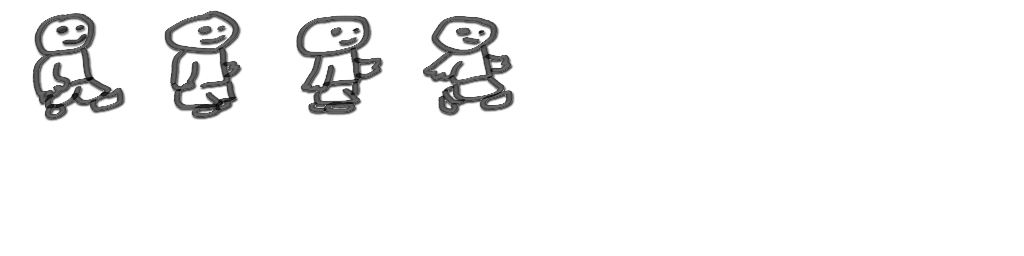
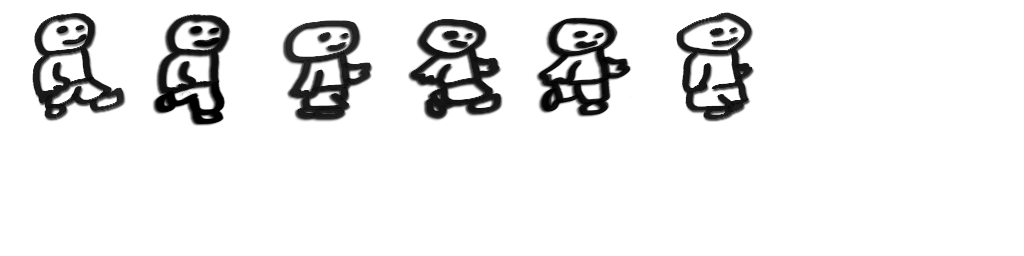
working on animations an gameplay

Changed region(s): [[0.0312, 0.0312, 0.625, 0.5], [0.6562, 0.0312, 0.75, 0.5]]

diff --git a/Vandalism-Tomatos-core/src/com/turtleGames/vandalism/tomatos/classes/WorldOrthoStyle.java b/Vandalism-Tomatos-core/src/com/turtleGames/vandalism/tomatos/classes/WorldOrthoStyle.java
@@ -1,11 +1,13 @@
 package com.turtleGames.vandalism.tomatos.classes;
 
+import java.util.Random;
+
 import com.badlogic.gdx.Gdx;
 import com.badlogic.gdx.graphics.Texture;
 import com.badlogic.gdx.math.Intersector;
 import com.badlogic.gdx.math.Vector3;
+import com.badlogic.gdx.utils.Array;
 import com.turtleGames.vandalism.tomatos.Tomatos;
-import com.turtleGames.vandalism.tomatos.collections.Targets;
 import com.turtleGames.vandalism.tomatos.entities.Background;
 import com.turtleGames.vandalism.tomatos.entities.ImpactSetter;
 import com.turtleGames.vandalism.tomatos.entities.Projectile;
@@ -30,7 +32,7 @@ public class WorldOrthoStyle {
 	public WorldRendererOrthoStyle worldRenderer;
 
 	Background background;
-	public Targets targets;
+	public Target target;
 	public ImpactSetter impactSetter;
 	public Projectile projectile;
 
@@ -38,13 +40,16 @@ public class WorldOrthoStyle {
 	Vector3 touchPoint;
 	public int state;
 
+	Array<Target> targets;
+
 	public WorldOrthoStyle(Tomatos game, WorldListener listener) {
 		this.game = game;
 		this.listener = listener;
 		this.touchPoint = new Vector3();
 
 		initiateBackground();
-		initiateTargets();
+		initiateTargetsArray();
+		initiateTarget();
 		initiateImpactSetter();
 		initiateProjectile();
 
@@ -56,8 +61,26 @@ public class WorldOrthoStyle {
 				(Texture) game.assetManager.get("data/background.png"));
 	}
 
-	private void initiateTargets() {
-		targets = new Targets(7, game.assets.targetAnimation);
+	private void initiateTargetsArray() {
+		targets = new Array<Target>();
+	}
+
+	private void initiateTarget() {
+		float x, y;
+
+		Random rand = new Random();
+		if (rand.nextFloat() > 0.5f)
+			x = 640;
+		else
+			x = 0;
+
+		y = rand.nextFloat() * 250;
+
+		target = new Target(x, y, game.assets.targetAnimation.getKeyFrame(0)
+				.getRegionWidth(), game.assets.targetAnimation.getKeyFrame(0)
+				.getRegionHeight(), game.assets.targetAnimation);
+
+		targets.add(target);
 	}
 
 	private void initiateImpactSetter() {
@@ -94,6 +117,7 @@ public class WorldOrthoStyle {
 		updateTargets(delta);
 		updateCamera();
 		checkCollitions();
+		checkTargets();
 	}
 
 	private void updateImpactSetter(float delta) {
@@ -105,7 +129,7 @@ public class WorldOrthoStyle {
 	}
 
 	private void updateTargets(float delta) {
-		targets.update(delta);
+		target.update(delta);
 	}
 
 	private void updateCamera() {
@@ -123,17 +147,23 @@ public class WorldOrthoStyle {
 
 	private void checkCollitions() {
 		if (impactSetter.isShooting() && projectile.stateTime >= 0.5f) {
-			for (int i = 0; i < targets.targets.size; i++) {
-				Target target = targets.targets.get(i);
+			for (int i = 0; i < targets.size; i++) {
+				Target target = targets.get(i);
 				if (target.spacePos.z <= projectile.spacePos.z + 8
 						&& target.spacePos.z >= projectile.spacePos.z - 8)
 					if (Intersector.overlaps(projectile.bounds, target.bounds))
 						if (target.spacePos.z <= projectile.spacePos.z + 32
 								&& target.spacePos.z >= projectile.spacePos.z - 32) {
-							targets.targets.removeIndex(i);
+							targets.removeIndex(i);
 							projectile.setUpdate(false);
 						}
 			}
+		}
+	}
+
+	private void checkTargets() {
+		if (targets.size == 0) {
+			initiateTarget();
 		}
 	}
 

diff --git a/Vandalism-Tomatos-core/src/com/turtleGames/vandalism/tomatos/classes/WorldRendererOrthoStyle.java b/Vandalism-Tomatos-core/src/com/turtleGames/vandalism/tomatos/classes/WorldRendererOrthoStyle.java
@@ -5,6 +5,7 @@ import com.badlogic.gdx.graphics.OrthographicCamera;
 import com.badlogic.gdx.graphics.Texture;
 import com.badlogic.gdx.graphics.g2d.SpriteBatch;
 import com.badlogic.gdx.graphics.g3d.ModelBatch;
+import com.turtleGames.vandalism.tomatos.entities.Target;
 
 public class WorldRendererOrthoStyle {
 
@@ -61,7 +62,12 @@ public class WorldRendererOrthoStyle {
 		spriteBatcher.setProjectionMatrix(orthoTargetsCam.combined);
 		spriteBatcher.enableBlending();
 		spriteBatcher.begin();
-		world.targets.render(spriteBatcher);
+		for (Target target : world.targets) {
+			spriteBatcher.draw(
+					target.getAnimation().getKeyFrame(target.stateTime, true),
+					target.spacePos.x, target.spacePos.y, target.dimensions.x,
+					target.dimensions.y);
+		}
 		spriteBatcher.end();
 	}
 
@@ -77,9 +83,11 @@ public class WorldRendererOrthoStyle {
 		spriteBatcher.setProjectionMatrix(orthoTargetsCam.combined);
 		spriteBatcher.enableBlending();
 		spriteBatcher.begin();
-		spriteBatcher.draw((Texture) world.game.assetManager.get("data/bush.png"), 0,
-				0, Gdx.graphics.getWidth(), 300);
-		spriteBatcher.draw((Texture) world.game.assetManager.get("data/kid6464.png"),
+		spriteBatcher.draw(
+				(Texture) world.game.assetManager.get("data/bush.png"), 0, 0,
+				Gdx.graphics.getWidth(), 300);
+		spriteBatcher.draw(
+				(Texture) world.game.assetManager.get("data/kid6464.png"),
 				Gdx.graphics.getWidth() / 2 - 25, 0, 64, 64);
 		spriteBatcher.end();
 	}

diff --git a/Vandalism-Tomatos-core/src/com/turtleGames/vandalism/tomatos/collections/Targets.java b/Vandalism-Tomatos-core/src/com/turtleGames/vandalism/tomatos/collections/Targets.java
@@ -1,7 +1,5 @@
 package com.turtleGames.vandalism.tomatos.collections;
 
-import java.util.Random;
-
 import com.badlogic.gdx.graphics.g2d.Animation;
 import com.badlogic.gdx.graphics.g2d.SpriteBatch;
 import com.badlogic.gdx.utils.Array;
@@ -14,25 +12,25 @@ public class Targets {
 
 	public Targets(int howMany, Animation animation) {
 
-		this.animation = animation;
-		targets = new Array<Target>();
-		float x = 0, y = 0;
-		Random rand = new Random();
+		// this.animation = animation;
+		// targets = new Array<Target>();
+		// float x = 0, y = 0;
+		// Random rand = new Random();
 
-		for (int i = 0; i < howMany; i++) {
+		// for (int i = 0; i < howMany; i++) {
 
-			if (rand.nextFloat() > 0.5f)
-				x = 640;
-			else
-				x = 0;
+		// if (rand.nextFloat() > 0.5f)
+		// x = 640;
+		// else
+		// x = 0;
 
-			y = rand.nextFloat() * 250;
+		// y = rand.nextFloat() * 250;
 
-			Target target = new Target(x, y, animation.getKeyFrame(0)
-					.getRegionWidth(), animation.getKeyFrame(0)
-					.getRegionHeight());
-			targets.add(target);
-		}
+		// Target target = new Target(x, y, animation.getKeyFrame(0)
+		// .getRegionWidth(), animation.getKeyFrame(0)
+		// .getRegionHeight());
+		// targets.add(target);
+		// }
 	}
 
 	public void render(SpriteBatch batcher) {

diff --git a/Vandalism-Tomatos-core/src/com/turtleGames/vandalism/tomatos/entities/Target.java b/Vandalism-Tomatos-core/src/com/turtleGames/vandalism/tomatos/entities/Target.java
@@ -1,13 +1,16 @@
 package com.turtleGames.vandalism.tomatos.entities;
 
+import com.badlogic.gdx.graphics.g2d.Animation;
 import com.badlogic.gdx.math.Rectangle;
 import com.turtleGames.vandalism.tomatos.classes.Dynamic3DGameObject;
 
 public class Target extends Dynamic3DGameObject {
 
 	public float stateTime;
+	private Animation animation;
 
-	public Target(float x, float y, float width, float height) {
+	public Target(float x, float y, float width, float height,
+			Animation animation) {
 		super(x, y, width, height);
 
 		stateTime = 0;
@@ -15,6 +18,8 @@ public class Target extends Dynamic3DGameObject {
 		setZ();
 
 		bounds = new Rectangle(x - width / 2, y - height / 2, width, height);
+
+		this.setAnimation(animation);
 	}
 
 	private void setZ() {
@@ -41,5 +46,13 @@ public class Target extends Dynamic3DGameObject {
 				height);
 
 		stateTime += delta;
+	}
+
+	public Animation getAnimation() {
+		return animation;
+	}
+
+	public void setAnimation(Animation animation) {
+		this.animation = animation;
 	}
 }

diff --git a/Vandalism-Tomatos-core/src/com/turtleGames/vandalism/tomatos/screens/LoadingScreen.java b/Vandalism-Tomatos-core/src/com/turtleGames/vandalism/tomatos/screens/LoadingScreen.java
@@ -6,7 +6,6 @@ import com.badlogic.gdx.graphics.GL20;
 import com.badlogic.gdx.graphics.Texture;
 import com.badlogic.gdx.graphics.g2d.Animation;
 import com.badlogic.gdx.graphics.g2d.TextureAtlas;
-import com.badlogic.gdx.graphics.g2d.TextureRegion;
 import com.badlogic.gdx.math.Interpolation;
 import com.badlogic.gdx.scenes.scene2d.Actor;
 import com.badlogic.gdx.scenes.scene2d.Stage;
@@ -92,12 +91,7 @@ public class LoadingScreen implements Screen {
 				"data/targetAnimation.pack", TextureAtlas.class);
 
 		game.assets.targetAnimation = new Animation(0.25f,
-				(TextureRegion) targetAnimAtlas.findRegion("target1"),
-				(TextureRegion) targetAnimAtlas.findRegion("target2"),
-				(TextureRegion) targetAnimAtlas.findRegion("target3"),
-				(TextureRegion) targetAnimAtlas.findRegion("target4"),
-				(TextureRegion) targetAnimAtlas.findRegion("target3"),
-				(TextureRegion) targetAnimAtlas.findRegion("target2"));
+				targetAnimAtlas.getRegions());
 	}
 
 	@Override

diff --git a/Vandalism-Tomatos-core/src/com/turtleGames/vandalism/tomatos/entities/ImpactSetter.java b/Vandalism-Tomatos-core/src/com/turtleGames/vandalism/tomatos/entities/ImpactSetter.java
@@ -20,7 +20,7 @@ public class ImpactSetter {
 
 	public void update(float delta) {
 		if (activate) {
-			position.add(-delta * 4 * 20, -delta * 8 * 20, -delta * 5.6f * 20);
+			position.add(-delta * 4 * 25, -delta * 8 * 25, -delta * 6 * 25);
 
 			if (position.y < -80)
 				activate = false;
@@ -53,7 +53,7 @@ public class ImpactSetter {
 	public void setActivate(boolean activate) {
 		this.activate = activate;
 
-		position.set(90, 110, 60);
+		position.set(100, 120, 70);
 	}
 
 	public boolean isActivate() {

diff --git a/Vandalism-Tomatos-desktop/src/com/turtleGames/vandalism/tomatos/desktop/DesktopLauncher.java b/Vandalism-Tomatos-desktop/src/com/turtleGames/vandalism/tomatos/desktop/DesktopLauncher.java
@@ -7,8 +7,8 @@ import com.turtleGames.vandalism.tomatos.Tomatos;
 public class DesktopLauncher {
 	public static void main(String[] arg) {
 		LwjglApplicationConfiguration config = new LwjglApplicationConfiguration();
-		config.width = 480;
-		config.height = 320;
+		config.width = 800;
+		config.height = 480;
 
 		new LwjglApplication(new Tomatos(), config);
 	}

diff --git a/Vandalism-Tomatos-core/src/com/turtleGames/vandalism/tomatos/screens/GameScreenOrthoStyle.java b/Vandalism-Tomatos-core/src/com/turtleGames/vandalism/tomatos/screens/GameScreenOrthoStyle.java
@@ -181,7 +181,6 @@ public class GameScreenOrthoStyle implements Screen {
 	@Override
 	public void resize(int width, int height) {
 		// TODO Auto-generated method stub
-
 	}
 
 	@Override
